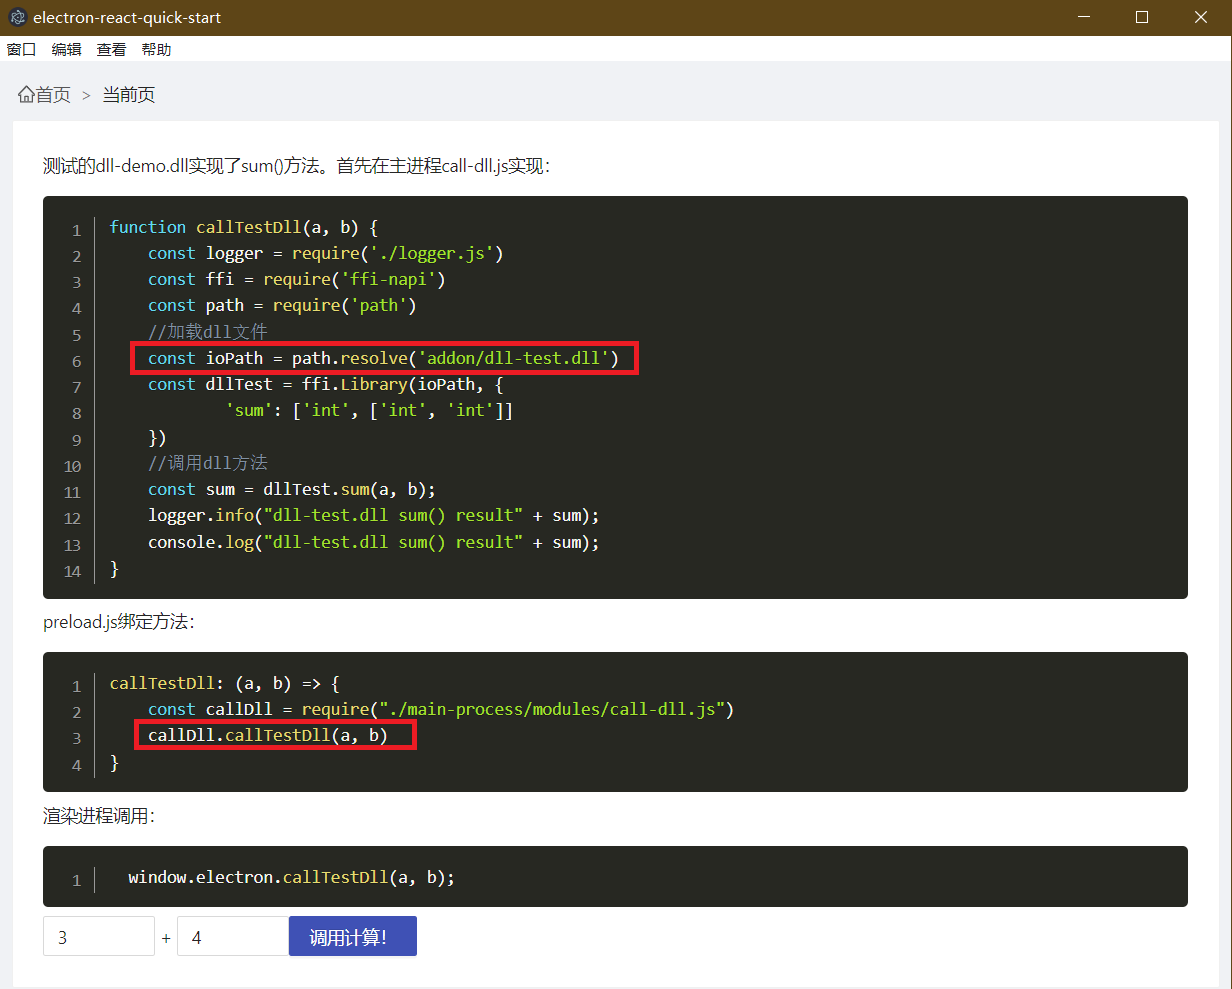
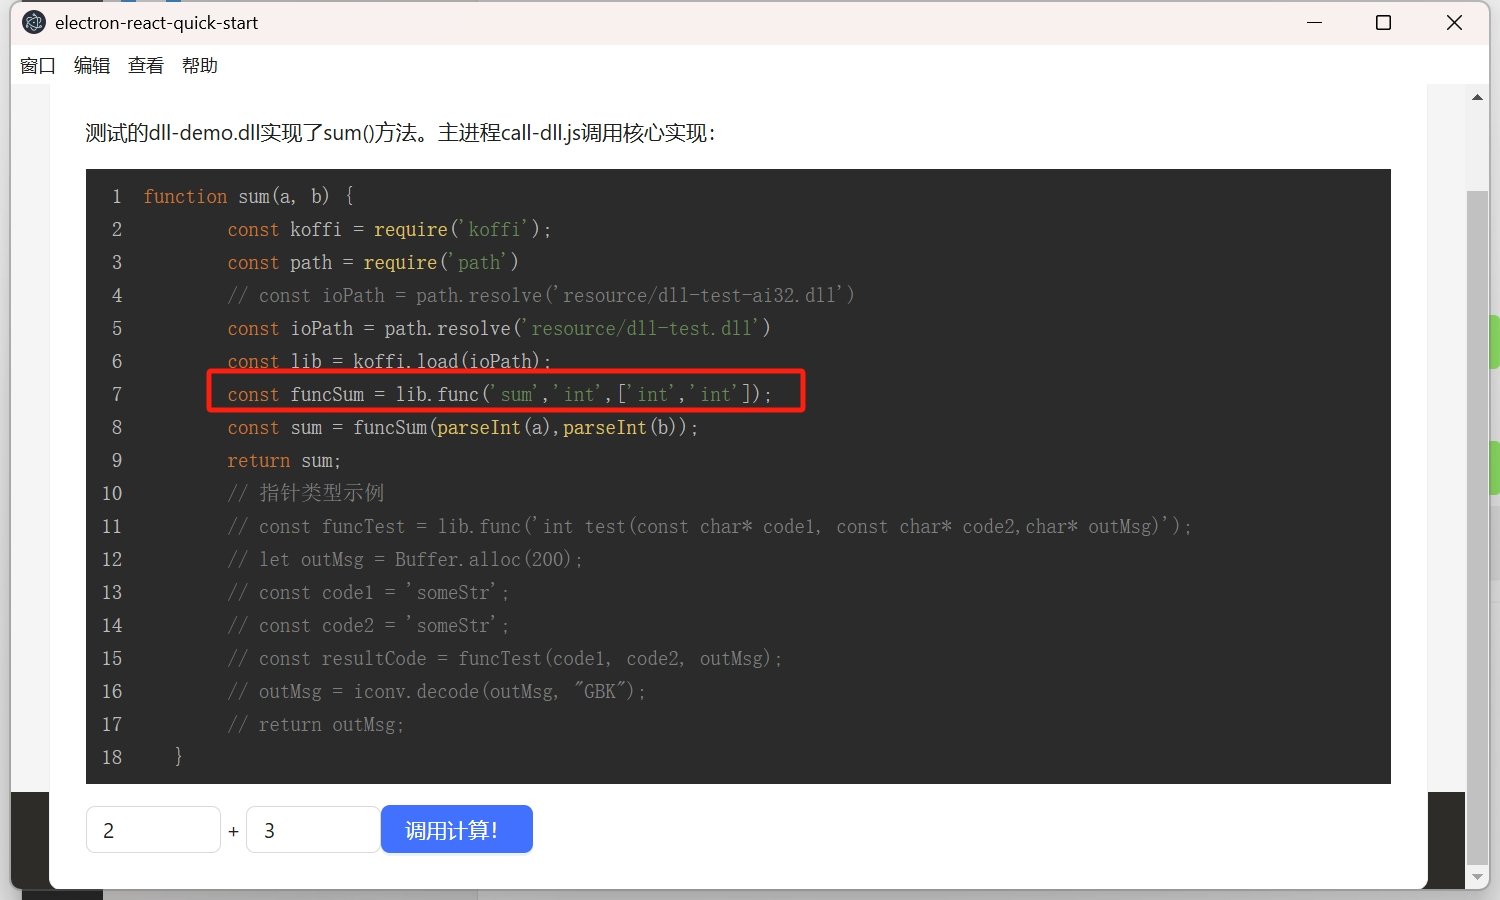
md

diff --git a/README.md b/README.md
@@ -11,19 +11,7 @@ electron + react 的脚手架项目。
 
 需要安装 [Git](https://git-scm.com) 和 [Node.js](https://nodejs.org/en/download/)。
 
-安装Python 3.x版本，请使用[最新稳定版本](https://www.python.org/downloads)。
-
-安装[visual studio build tool](https://visualstudio.microsoft.com/zh-hans/thank-you-downloading-visual-studio/?sku=BuildTools)或 [visual studio Community](https://visualstudio.microsoft.com/zh-hans/thank-you-downloading-visual-studio/?sku=Community&rel=17)，安装时选择c++桌面开发项。本示例使用VS Community 2022。
->nodejs原生编译工具node-gyp 8.4.x以上版本才支持vs 2022，请确保npm环境下的node-gyp为最新版本。
-
-```bash
-node -v
-v18.16.0
-npm -v
-v9.5.1
-npx node-gyp -v
-v9.3.1
-```
+> Koffi 相比 Node-FFI/N-API 的主要优势是不需要预编译nodejs原生编译工具，不需要使用node-gyp库。仅调用现有库：不需要 VS Studio 或任何编译工具。 
 
 ### 2. 设置npm镜像:
 ```bash
@@ -38,12 +26,10 @@ npm config set registry https://registry.npmmirror.com/
 git clone https://github.com/fddi/electron-react-quick-start
 # 转到项目目录
 cd electron-react-quick-start
-# 设置vs 版本 
-npm config set msvs_version 2022
 # 安装
 npm install
 # 运行
-npm run start
+npm run dev
 ```
 - 运行界面
 
